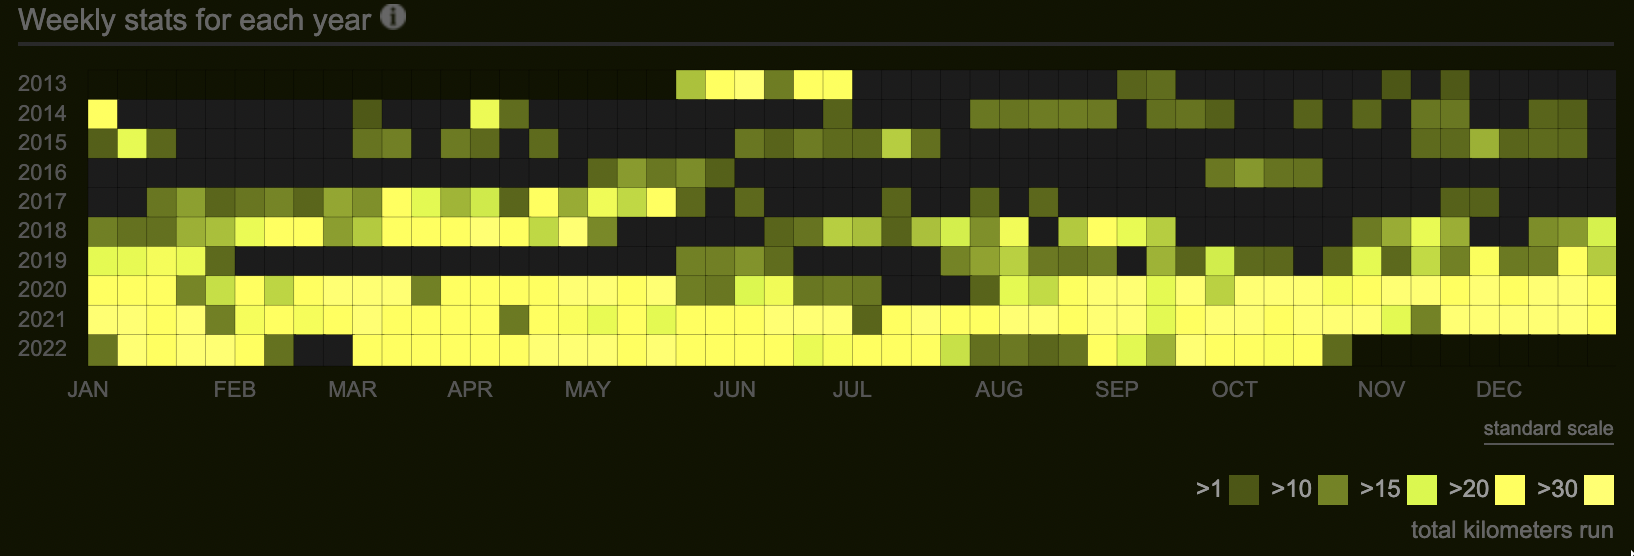
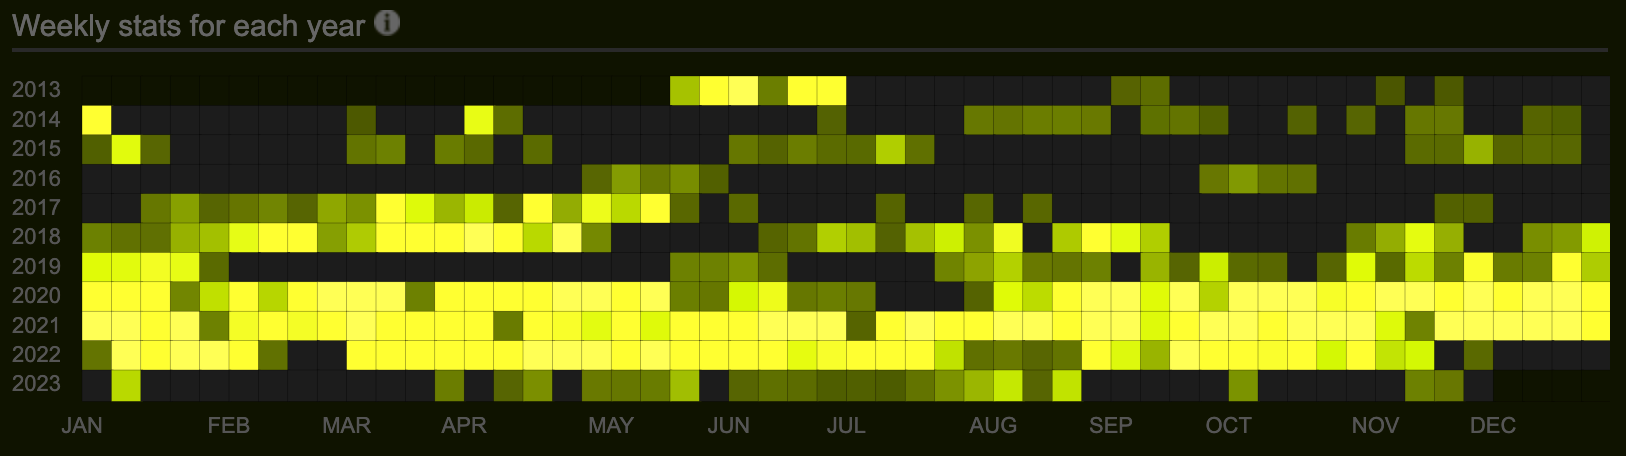
add keyoxide, update running

diff --git a/_docs/running.md b/_docs/running.md
@@ -18,11 +18,10 @@ Running stats generated by [Smashrun](https://smashrun.com/richard.gibert/)
 
 | Distance | Time |
 |----------|------|
-| 5k | 27:52 |
-| 7k | 46:04 |
-| 10k | 59:33 |
-| 15k | 1:32:56 |
-| 21.1k | 2:25:50 |
+| 5k | 31:54.9 |
+| 7k | 45:57.5 |
+| 10k | 1:04:13.0 |
+| 21.1k | 2:33:42.0 |
 
 ## Races
 
@@ -33,5 +32,5 @@ Running stats generated by [Smashrun](https://smashrun.com/richard.gibert/)
 | [RBC Race for the Kids 7k](http://www.rbcraceforthekids.ca/) | 2018-09-15 | 7 km | ![Failed](/assets/img/red-cross.png) 00:45:00.0 | [00:45:57.5](https://www.sportstats.ca/display-results.xhtml?raceid=94305&bib=731) |
 | [RBC Race for the Kids 5k](http://www.rbcraceforthekids.ca/) | 2019-09-14 | 5 km | ![Succeeded](/assets/img/green-check.png) 00:35:00.0 | [00:31:54.9](https://www.sportstats.ca/display-results.xhtml?raceid=101622&bib=191) |
 | [Toronto Waterfront Half Marathon](http://www.torontowaterfrontmarathon.com/event-info/half-marathon/) | 2022-10-17 | 21.1 km | ![Failed](/assets/img/red-cross.png) 02:30:00.0 | [02:33:42.0](https://www.sportstats.ca/display-results.xhtml?raceid=114381&bib=8749)|
-| [Toronto Waterfront 10k?](https://canadarunningseries.com/toronto-10k/) | 2023-06-17 | 10 km | 00:55:00.0 | |
-| [Toronto Island Run 10k?](https://longboatroadrunners.com/torontoislandrun/) | 2023-09-11 | 10 km | 00:55:00.0 | |
+| [Toronto Spring Run-Off 8k](https://canadarunningseries.com/spring-run-off/) | 2024-04-06 | 8 km | ![TBD](/assets/img/blue-dash.png) 00:50:00.0 | |
+| [Toronto Waterfront Half Marathon](http://www.torontowaterfrontmarathon.com/event-info/half-marathon/) | 2024-10-20 | 21.1 km | ![TBD](/assets/img/blue-dash.png) 02:15:00.0 | |

diff --git a/_docs/keyoxide.md b/_docs/keyoxide.md
@@ -1,0 +1,6 @@
+---
+title: GitHub
+permalink: /docs/keyoxide
+redirect_to:
+  - https://keyoxide.org/richard@gibert.ca
+---
